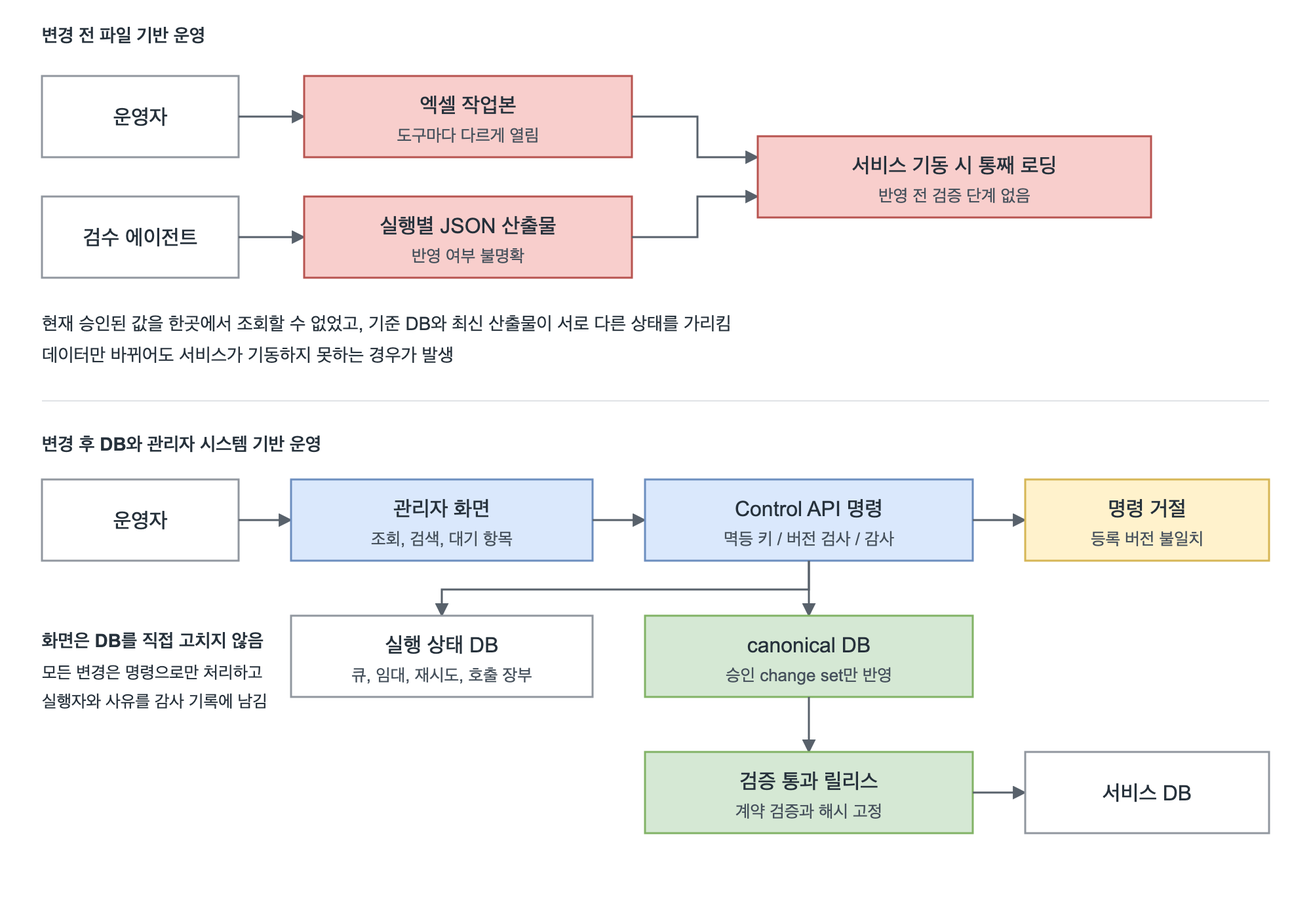
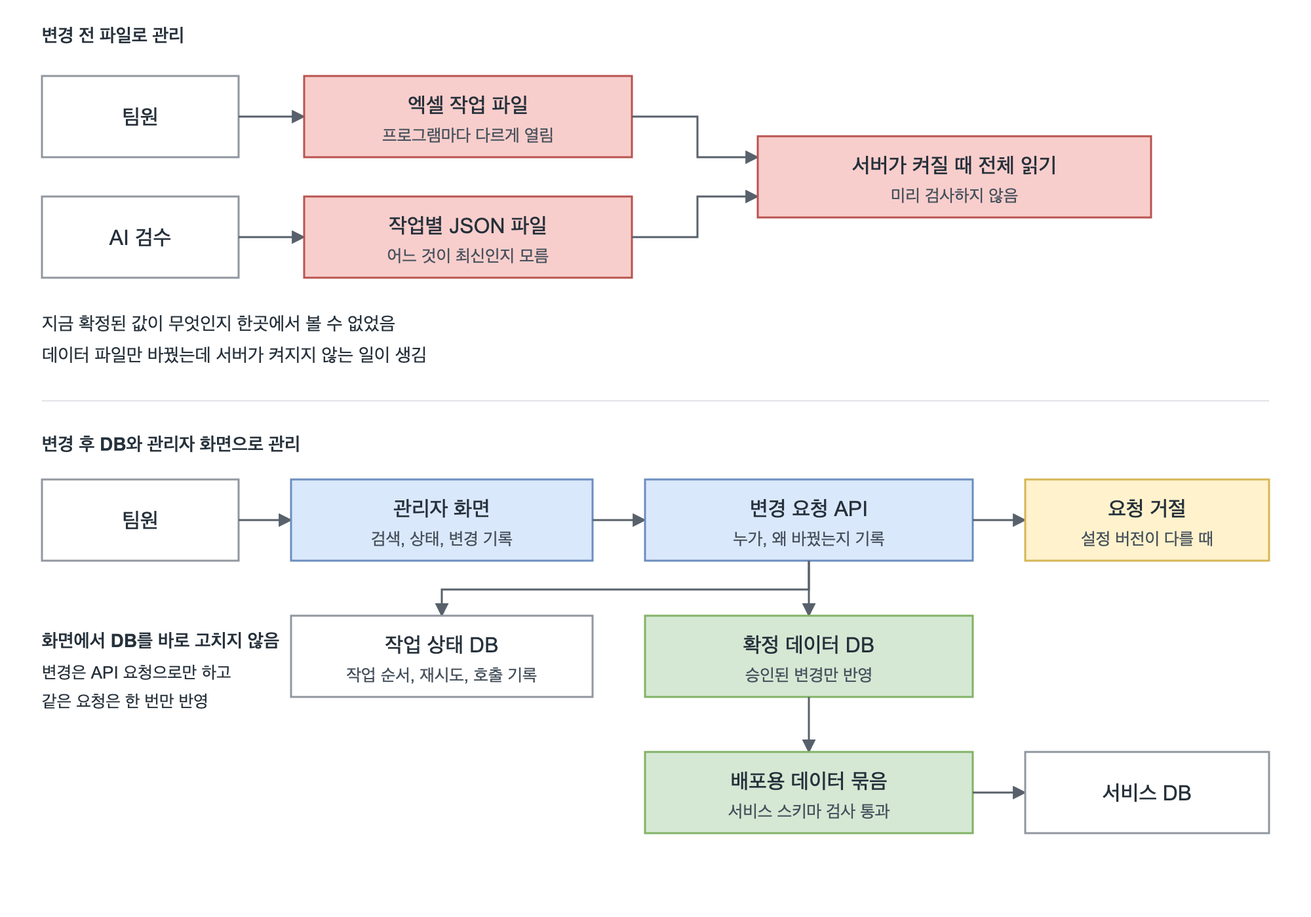
Rewrite data cases and diagrams in plain language

diff --git a/index.html b/index.html
@@ -46,83 +46,83 @@
         <div class="sec-title"><h2 id="cases-title">문제 해결 기록</h2><span class="section-en">Selected cases</span></div>
         <ol class="case-index">
 <li><a href="#case-ingredient-admin"><span class="index-no">01</span><span class="index-title">파일로 관리하던 성분 데이터를 관리자 시스템으로 전환</span><span class="index-project">Poudy</span><span class="index-arrow" aria-hidden="true">↗</span></a></li>
-<li><a href="#case-data-pipeline"><span class="index-no">02</span><span class="index-title">수집부터 서비스 전달까지 데이터 계층과 실행 주체 정의</span><span class="index-project">Poudy</span><span class="index-arrow" aria-hidden="true">↗</span></a></li>
+<li><a href="#case-data-pipeline"><span class="index-no">02</span><span class="index-title">파일과 AI 대화로 하던 데이터 처리를 단계별 파이프라인으로 정리</span><span class="index-project">Poudy</span><span class="index-arrow" aria-hidden="true">↗</span></a></li>
 <li><a href="#case-poudy-infra"><span class="index-no">03</span><span class="index-title">데이터 교체 실패 시 이전 상태로 복구하도록 배포 구성</span><span class="index-project">Poudy</span><span class="index-arrow" aria-hidden="true">↗</span></a></li>
 <li><a href="#case-like"><span class="index-no">04</span><span class="index-title">동시 요청과 재시도로 발생한 좋아요 오류 해결</span><span class="index-project">Layer Archive</span><span class="index-arrow" aria-hidden="true">↗</span></a></li>
 <li><a href="#case-dialect"><span class="index-no">05</span><span class="index-title">로컬에서는 통과하고 배포 환경에서만 발생한 조회 오류 해결</span><span class="index-project">Layer Archive</span><span class="index-arrow" aria-hidden="true">↗</span></a></li>
 </ol>
 <article class="case" id="case-ingredient-admin" aria-labelledby="case-title-1">
-  <div class="case-top"><span class="case-no">01</span><span class="proj">Poudy</span><span class="case-context">데이터 운영 / 2026.08 – 현재</span></div>
+  <div class="case-top"><span class="case-no">01</span><span class="proj">Poudy</span><span class="case-context">데이터 관리 / 2026.08 – 현재</span></div>
   <h3 id="case-title-1">파일로 관리하던 성분 데이터를 관리자 시스템으로 전환</h3>
-  <p class="case-deck">승인된 변경만 반영하고, 검증을 통과한 릴리스로 서비스에 전달하도록 운영 경로를 다시 만들었습니다.</p>
+  <p class="case-deck">엑셀과 JSON 파일로 관리하던 성분 데이터를 DB와 관리자 화면으로 옮겼습니다. 이제 승인된 변경만 서비스에 반영됩니다.</p>
   <figure>
-    <div class="figure-heading"><p class="figure-title">운영 경로 변경 전후</p><a href="assets/diagrams/ingredient-admin.png" data-diagram aria-label="운영 경로 변경 전후 크게 보기">크게 보기 ↗</a></div>
-    <a class="diagram-link" href="assets/diagrams/ingredient-admin.png" data-diagram aria-label="운영 경로 변경 전후 이미지 확대"><img class="diagram-image" src="assets/diagrams/ingredient-admin.png" width="2000" height="1400" alt="변경 전에는 운영자와 검수 에이전트가 엑셀 작업본과 실행별 JSON 산출물을 직접 다루고 서비스가 기동할 때 통째로 읽었다. 변경 후에는 운영자가 관리자 화면에서 Control API 명령을 보내고, 실행 상태 DB와 canonical DB를 거쳐 검증을 통과한 릴리스만 서비스 DB로 전달된다" loading="lazy" decoding="async"></a>
+    <div class="figure-heading"><p class="figure-title">관리 방식 변경 전후</p><a href="assets/diagrams/ingredient-admin.png" data-diagram aria-label="관리 방식 변경 전후 크게 보기">크게 보기 ↗</a></div>
+    <a class="diagram-link" href="assets/diagrams/ingredient-admin.png" data-diagram aria-label="관리 방식 변경 전후 이미지 확대"><img class="diagram-image" src="assets/diagrams/ingredient-admin.png" width="2000" height="1400" alt="변경 전에는 팀원과 AI 검수가 엑셀과 작업별 JSON 파일을 직접 다루고, 서버가 켜질 때 파일 전체를 검사 없이 읽었다. 변경 후에는 관리자 화면에서 API로 변경을 요청하고, 승인된 변경만 확정 데이터에 반영한 뒤 서비스 스키마 검사를 통과한 묶음만 서비스 DB로 보낸다" loading="lazy" decoding="async"></a>
   </figure>
   <div class="psr">
     <div>
       <p class="label">문제 원인</p>
       <ul>
-        <li>작업본이 엑셀 파일 하나였고 검수 결과는 실행별 JSON으로 쌓여, <b>어떤 값이 현재 승인된 값인지 한곳에서 조회할 수 없었습니다.</b> 실제로 기준 DB와 최신 산출물이 서로 다른 태그 상태를 가리켰습니다.</li>
-        <li>사람과 에이전트가 같은 파일을 함께 열다 보니 도구마다 서식이 다르게 열리고 잠금 파일이 남았습니다.</li>
-        <li>반영 전에 검증하는 단계가 없어, 데이터만 바꿔도 서비스가 기동하지 못하는 경우가 있었습니다. 진행 상황을 보려면 작업 중인 에이전트를 멈추고 확인해야 했습니다.</li>
+        <li>성분 데이터 원본은 엑셀 파일 하나였고, AI 검수 결과는 실행할 때마다 JSON 파일로 따로 쌓였습니다. 그래서 지금 확정된 값이 무엇인지 한곳에서 볼 수 없었고, 실제로 두 기록의 태그 상태가 서로 달랐습니다.</li>
+        <li>팀원과 AI가 같은 엑셀 파일을 열다 보니 프로그램마다 서식이 다르게 보였고, 잠금 파일이 남는 일도 잦았습니다.</li>
+        <li>서버는 켜질 때 데이터 파일 전체를 읽었는데, 미리 검사하는 단계가 없었습니다. 데이터만 바꿨는데 서버가 켜지지 않은 적도 있습니다.</li>
       </ul>
     </div>
     <div>
       <p class="label">해결 과정</p>
       <ul>
-        <li>운영자가 쓰는 <b>관리자 화면</b>에서 22,013건을 이름과 INCI로 검색하고, 필드별 상태와 대기 항목, 변경 전후와 근거, 감사 기록을 한곳에서 보도록 했습니다.</li>
-        <li><b>화면이 DB를 직접 수정하지 않습니다.</b> 모든 변경은 Control API 명령으로 처리하고, 명령마다 멱등 키와 기대 버전, 실행자, 사유를 감사 이벤트로 남깁니다.</li>
-        <li>등록된 워크플로 버전과 현재 정의가 다르면 <b>명령을 거절</b>합니다. 기존 등록값을 덮어써서 통과시키지 않습니다.</li>
-        <li>승인된 변경 묶음만 통합 데이터에 반영하고, 그 결과를 서비스 스키마 계약에 맞춰 릴리스로 만든 뒤 격리한 PostgreSQL에 적재해 실제 서비스 조회 코드로 확인했습니다.</li>
+        <li>관리자 화면을 만들었습니다. 원료 22,013건을 이름으로 검색하고, 원료마다 현재 상태와 바뀐 내용, 근거, 수정 기록을 볼 수 있습니다.</li>
+        <li>화면에서 DB를 바로 고치지 않게 했습니다. 변경은 API 요청으로만 할 수 있고, 요청마다 누가 왜 바꿨는지 남습니다. 같은 요청이 두 번 들어와도 한 번만 반영됩니다.</li>
+        <li>설정 버전이 맞지 않으면 요청을 거절합니다. 오래된 설정으로 데이터를 바꾸는 일을 막기 위해서입니다.</li>
+        <li>승인된 변경만 확정 데이터에 넣고, 서비스 스키마에 맞춘 배포용 묶음을 만들었습니다. 이 묶음을 별도 PostgreSQL에 넣고 실제 서비스 조회 코드로 읽히는지 확인했습니다.</li>
       </ul>
     </div>
     <div class="result">
       <p class="label">결과</p>
       <ul>
-        <li>파일을 직접 여는 운영을 없애고 조회, 승인, 게시, 이력을 <b>한 화면에서 처리</b></li>
-        <li>승인되지 않은 값은 반영되지 않고, 같은 요청을 다시 보내도 <b>중복 반영과 중복 이력이 생기지 않음</b></li>
-        <li>기준이 달랐던 상태 충돌 <b>1,086건을 자동 채택하지 않고 격리</b>해 검토 대상으로 노출</li>
-        <li>릴리스에서 원료 22,013건과 별칭 4,354건을 생성해 격리 DB 적재와 <b>재실행, 충돌 거부, 롤백까지 확인</b></li>
-        <li>검증 범위: 로컬과 격리 환경 기준이며 운영 DB 적재와 서비스 게시는 수행하지 않았습니다</li>
+        <li>엑셀을 직접 열지 않고 관리자 화면에서 <b>조회, 승인, 반영</b>까지 처리</li>
+        <li>승인하지 않은 값은 반영되지 않고, 같은 요청을 다시 보내도 <b>두 번 반영되지 않음</b></li>
+        <li>두 기록이 서로 달랐던 <b>1,086건</b>은 자동으로 고르지 않고 따로 모아 사람이 확인하도록 함</li>
+        <li>원료 22,013건을 배포용 묶음으로 만들어 별도 DB에 넣고, <b>다시 넣기와 되돌리기</b>까지 확인</li>
+        <li>확인 범위는 별도 테스트 DB까지이며, 운영 DB 반영은 아직 하지 않았습니다</li>
       </ul>
     </div>
   </div>
 </article>
 <article class="case" id="case-data-pipeline" aria-labelledby="case-title-2">
   <div class="case-top"><span class="case-no">02</span><span class="proj">Poudy</span><span class="case-context">데이터 파이프라인 / 2026.08 – 현재</span></div>
-  <h3 id="case-title-2">수집부터 서비스 전달까지 데이터 계층과 실행 주체 정의</h3>
-  <p class="case-deck">버전이 남지 않던 파일과 LLM 중심 처리에 계층을 정의하고, 단계마다 코드와 LLM의 역할을 나눠 같은 입력에서 같은 결과가 나오도록 만들었습니다.</p>
+  <h3 id="case-title-2">파일과 AI 대화로 하던 데이터 처리를 단계별 파이프라인으로 정리</h3>
+  <p class="case-deck">데이터를 원본 보관, 정리와 확정, 서비스 전달 세 단계로 나누고, 단계마다 코드가 할 일과 AI가 할 일을 구분했습니다.</p>
   <figure>
-    <div class="figure-heading"><p class="figure-title">데이터 계층과 단계별 실행 주체</p><a href="assets/diagrams/data-hub-layers.png" data-diagram aria-label="데이터 계층과 단계별 실행 주체 크게 보기">크게 보기 ↗</a></div>
-    <a class="diagram-link" href="assets/diagrams/data-hub-layers.png" data-diagram aria-label="데이터 계층과 단계별 실행 주체 이미지 확대"><img class="diagram-image" src="assets/diagrams/data-hub-layers.png" width="2000" height="1280" alt="수집 원본을 보존하는 L0, 정규화와 승인을 거치는 L1, 대상 DB 계약을 검증하는 L2로 계층을 나눈다. 수집과 정규화와 릴리스는 결정론적 코드가, 근거 조사와 작성과 독립 검증은 LLM 서브에이전트가, 큐와 재시도와 감사는 실행 상태 DB가 맡는다" loading="lazy" decoding="async"></a>
+    <div class="figure-heading"><p class="figure-title">데이터 처리 단계와 원료 한 건의 처리 순서</p><a href="assets/diagrams/data-hub-layers.png" data-diagram aria-label="데이터 처리 단계와 원료 한 건의 처리 순서 크게 보기">크게 보기 ↗</a></div>
+    <a class="diagram-link" href="assets/diagrams/data-hub-layers.png" data-diagram aria-label="데이터 처리 단계와 원료 한 건의 처리 순서 이미지 확대"><img class="diagram-image" src="assets/diagrams/data-hub-layers.png" width="2000" height="1620" alt="데이터를 원본 보관, 정리와 확정, 서비스 전달 세 단계로 나눈다. 원료 한 건은 작업을 가져와 입력을 준비한 뒤 LLM이 근거 찾기, 근거 고르기, 설명과 태그 쓰기, 다른 역할의 검토를 거치고, 규칙 검사 결과에 따라 확정 데이터 반영, 사람 확인 대기, 재시도나 보류로 나뉜다" loading="lazy" decoding="async"></a>
   </figure>
   <div class="psr">
     <div>
       <p class="label">문제 원인</p>
       <ul>
-        <li>처리 규칙이 파일과 대화에 흩어져 있어 <b>같은 입력으로 같은 결과를 다시 만들 수 없었고</b>, 버전도 남지 않았습니다.</li>
-        <li>수집, 정규화, 판단, 검증, 게시가 한 덩어리로 섞여 있어 한 단계가 막히면 전체가 멈췄습니다.</li>
-        <li>무엇이 원본이고 무엇이 파생물인지 구분이 없어, 어떤 값이 근거를 가진 승인 값인지 되짚기 어려웠습니다.</li>
+        <li>처리 규칙이 파일과 AI 대화 기록에 흩어져 있었습니다. 같은 작업을 다시 돌려도 같은 결과가 나온다는 보장이 없었고, 어떤 규칙으로 처리했는지도 남지 않았습니다.</li>
+        <li>수집, 정리, 판단, 검토, 반영이 한 흐름에 섞여 있어서 원료 하나에서 막히면 뒤의 작업도 멈췄습니다.</li>
+        <li>원본과 가공한 결과가 구분되지 않아, 어떤 값이 근거를 갖고 승인된 값인지 나중에 되짚기 어려웠습니다.</li>
       </ul>
     </div>
     <div>
       <p class="label">해결 과정</p>
       <ul>
-        <li>데이터를 <b>수집 원본, 구조화와 통합, 소비 계약</b> 세 계층으로 나누고 계층마다 진입 기준과 허용 상태를 정했습니다. 원본은 고치지 않고 해시로 식별하며, 기준을 통과한 경우에만 다음 계층으로 올립니다.</li>
-        <li><b>계층과 상태를 분리</b>했습니다. 위치가 품질을 보장하지 않도록 검토 상태와 실행 상태, 게시 상태를 각각 따로 관리합니다.</li>
-        <li>단계마다 실행 주체를 지정했습니다. 수집과 해시 기록, import와 정규화, 무결성 검사, 릴리스 생성은 <b>결정론적 코드와 SQL</b>이 맡고, 근거 조사와 판정, 작성, 독립 검증, 사람 승인 대기처럼 <b>판단과 순환이 필요한 구간만 LLM 서브에이전트</b>가 맡습니다.</li>
-        <li>에이전트 호출은 역할별 JSON 스키마로 고정하고 규칙 기반 게이트를 통과한 결과만 후보가 됩니다. 실패는 일시적인 것과 도메인 문제로 나눠, 다시 물어도 같은 답이 오는 실패는 재시도하지 않고 격리합니다.</li>
+        <li>데이터를 세 단계로 나눴습니다. 받은 원본은 고치지 않고 보관하고, 다음 단계에서 형식을 맞추고 중복과 충돌을 확인한 뒤 승인된 값만 확정합니다. 마지막 단계에서 서비스 스키마에 맞게 묶습니다. 메달리온 구조를 우리 데이터에 맞게 바꿔 적용했습니다.</li>
+        <li>단계마다 누가 처리할지 정했습니다. 파일 읽기, 형식 정리, 중복 검사, 배포용 묶음 만들기처럼 답이 정해진 일은 Python 코드가 합니다. 근거 찾기, 설명 쓰기, 검토처럼 판단이 필요한 일만 LLM에게 맡겼습니다.</li>
+        <li>LLM 단계는 LangGraph로 묶어 찾기, 고르기, 쓰기, 검토 순서로 흐르게 했습니다. 사람 확인이 필요하면 멈췄다가, 확인한 뒤 같은 자리에서 이어갑니다.</li>
+        <li>작업 순서와 재시도는 SQLite로 관리합니다. 시간 초과처럼 다시 하면 풀리는 실패는 잠시 뒤 재시도하고, 다시 물어도 같은 답이 나올 실패는 보류로 돌린 뒤 다음 원료를 처리합니다.</li>
       </ul>
     </div>
     <div class="result">
       <p class="label">결과</p>
       <ul>
-        <li>원료 22,013건을 같은 기준으로 처리하는 계층과 규칙을 정의하고, <b>도메인과 계층별 메타데이터 계약을 검증</b>하는 구조를 구현</li>
-        <li>입력 원본의 해시와 식별자 22,013건, 태그 대조 22,013건, 카탈로그 98종을 기록해 <b>값의 출처와 이력을 되짚을 수 있게 함</b></li>
-        <li>같은 입력과 프롬프트의 성공 결과를 재사용하고 실패를 분류해, <b>같은 실패를 반복 호출하지 않도록 차단</b></li>
-        <li>이벤트 재생을 두 번 수행해 <b>같은 상태가 재현되는 것을 확인</b></li>
-        <li>검증 범위: 계약과 메타데이터 검증, 격리 환경 실행 기준이며 도메인별 수집기와 승격 실행기는 후속 구현입니다</li>
+        <li>원료 22,013건을 <b>같은 규칙, 같은 순서</b>로 처리하는 구조를 만듦</li>
+        <li>원본 파일, 원료 22,013건, 태그 코드 98종을 기록해 <b>값이 어디서 왔는지</b> 되짚을 수 있게 함</li>
+        <li>이미 성공한 AI 호출은 결과를 다시 쓰고, <b>같은 실패는 반복해서 호출하지 않음</b></li>
+        <li>작업 기록을 처음부터 두 번 다시 적용해 <b>같은 상태가 나오는지</b> 확인</li>
+        <li>확인 범위는 구조 검증과 원료 100건 시험 실행까지이며, 전체 처리는 진행 중입니다</li>
       </ul>
     </div>
   </div>
@@ -130,7 +130,7 @@
 <article class="case" id="case-poudy-infra" aria-labelledby="case-title-3">
   <div class="case-top"><span class="case-no">03</span><span class="proj">Poudy</span><span class="case-context">인프라 / 2026.08 – 현재</span></div>
   <h3 id="case-title-3">데이터 교체 실패 시 이전 상태로 복구하도록 배포 구성</h3>
-  <p class="case-deck">컨테이너 이미지 배포가 어려운 환경에서 systemd와 CodeDeploy로 배포를 구성하고, S3 데이터 교체에 실패하면 복구할 수 있는 경로를 마련했습니다.</p>
+  <p class="case-deck">Docker 이미지를 쓸 수 없는 서버에서 systemd와 CodeDeploy로 배포했습니다. 데이터 교체에 실패하면 이전 데이터로 되돌아갑니다.</p>
   <figure>
     <div class="figure-heading"><p class="figure-title">배포 아키텍처</p><a href="assets/diagrams/poudy-infrastructure.png" data-diagram aria-label="배포 아키텍처 크게 보기">크게 보기 ↗</a></div>
     <a class="diagram-link" href="assets/diagrams/poudy-infrastructure.png" data-diagram aria-label="배포 아키텍처 이미지 확대"><img class="diagram-image" src="assets/diagrams/poudy-infrastructure.png" width="2000" height="1300" alt="웹 브라우저와 WebView 기반 Android 앱이 프론트 EC2의 Nginx로 들어오고, Nginx가 Next.js standalone과 백엔드 EC2의 Spring Boot로 요청을 나눈다. 백엔드 EC2는 S3의 서비스 데이터를 타이머로 동기화하고, CodeBuild와 CodeDeploy가 두 EC2에 배포한다" loading="lazy" decoding="async"></a>
@@ -159,7 +159,7 @@
             <ul>
               <li><b>www.poudy.site와 Google Play 앱</b>을 이 배포 위에서 운영하며 릴리즈를 이어가는 중</li>
               <li>systemd 통제 테스트에서 백엔드 프로세스를 강제 종료(SIGKILL)하자 <b>약 5초 후 자동 재시작, 약 24초 후 health 복구</b> 확인</li>
-              <li>k6 고정 부하 60초에서 캐시 미적중 <b>30 req/s 오류 0%, p95 10.97ms, CPU 사용 최대 13%, swap 0</b>을 SSM 지표와 함께 확인해 단일 EC2 유지의 근거로 삼음</li>
+              <li>k6 고정 부하 60초에서 캐시 미적중 <b>30 req/s 오류 0%, p95 10.97ms, CPU 사용 최대 13%, swap 0</b>을 SSM 지표로 확인해, 지금은 서버를 늘리지 않아도 된다고 판단</li>
             </ul>
           </div>
         </div>
@@ -231,7 +231,7 @@
             <p class="label">결과</p>
             <ul>
               <li>배포 환경의 <b>갤러리와 아카이브 목록 조회 장애 해소</b></li>
-              <li>같은 유형의 방언 차이 버그를 사용자에게 노출되기 전 <b>머지 전 CI에서 잡는 구조</b> 확보</li>
+              <li>DB 종류에 따라 달라지는 버그를 사용자가 보기 전에 <b>머지 전 CI에서 잡을 수 있게 됨</b></li>
               <li>검색과 필터 JPQL을 추가할 때 방언 민감도를 먼저 판단하는 기준을 ADR로 문서화</li>
             </ul>
           </div>

diff --git a/scripts/build_diagrams.py b/scripts/build_diagrams.py
@@ -195,68 +195,81 @@ d.box(282, 396, 436, 66, '정량 평가', '정확도 / 관련성 / 환각률', '
 d.text(32, 513, 'RAG 적용 전후를 동일한 테스트셋으로 비교', 14)
 d.save()
 
-d = Diagram('ingredient-admin', 700, '성분 데이터 운영 경로 변경', '변경 전에는 운영자와 에이전트가 엑셀과 실행별 JSON을 직접 다루고 서비스가 기동 시 통째로 읽었다. 변경 후에는 관리자 화면이 Control API 명령으로만 상태를 바꾸고, 승인된 변경만 canonical에 반영해 검증을 통과한 릴리스로 서비스에 전달한다.')
-d.text(32, 32, '변경 전  파일 기반 운영', 14, 600)
-d.box(32, 58, 150, 62, '운영자')
-d.box(32, 150, 150, 62, '검수 에이전트')
+d = Diagram('ingredient-admin', 700, '성분 데이터 관리 방식 변경 전후', '변경 전에는 팀원과 AI 검수가 엑셀과 작업별 JSON 파일을 직접 다루고, 서버가 켜질 때 파일 전체를 검사 없이 읽었다. 변경 후에는 관리자 화면에서 API로 변경을 요청하고, 승인된 변경만 확정 데이터에 반영한 뒤 서비스 스키마 검사를 통과한 묶음만 서비스 DB로 보낸다.')
+d.text(32, 32, '변경 전  파일로 관리', 14, 600)
+d.box(32, 58, 150, 62, '팀원')
+d.box(32, 150, 150, 62, 'AI 검수')
 d.arrow('M182 89H232')
 d.arrow('M182 181H232')
-d.box(232, 58, 250, 62, '엑셀 작업본', '도구마다 다르게 열림', 'red')
-d.box(232, 150, 250, 62, '실행별 JSON 산출물', '반영 여부 불명확', 'red')
+d.box(232, 58, 250, 62, '엑셀 작업 파일', '프로그램마다 다르게 열림', 'red')
+d.box(232, 150, 250, 62, '작업별 JSON 파일', '어느 것이 최신인지 모름', 'red')
 d.arrow('M482 89H532V120H578')
 d.arrow('M482 181H532V150H578')
-d.box(578, 104, 300, 62, '서비스 기동 시 통째 로딩', '반영 전 검증 단계 없음', 'red')
-d.text(32, 252, '현재 승인된 값을 한곳에서 조회할 수 없었고, 기준 DB와 최신 산출물이 서로 다른 상태를 가리킴', 14)
-d.text(32, 276, '데이터만 바뀌어도 서비스가 기동하지 못하는 경우가 발생', 14)
+d.box(578, 104, 300, 62, '서버가 켜질 때 전체 읽기', '미리 검사하지 않음', 'red')
+d.text(32, 252, '지금 확정된 값이 무엇인지 한곳에서 볼 수 없었음', 14)
+d.text(32, 276, '데이터 파일만 바꿨는데 서버가 켜지지 않는 일이 생김', 14)
 d.rule(306)
-d.text(32, 344, '변경 후  DB와 관리자 시스템 기반 운영', 14, 600)
-d.box(32, 366, 150, 62, '운영자')
+d.text(32, 344, '변경 후  DB와 관리자 화면으로 관리', 14, 600)
+d.box(32, 366, 150, 62, '팀원')
 d.arrow('M182 397H222')
-d.box(222, 366, 230, 62, '관리자 화면', '조회, 검색, 대기 항목', 'blue')
+d.box(222, 366, 230, 62, '관리자 화면', '검색, 상태, 변경 기록', 'blue')
 d.arrow('M452 397H492')
-d.box(492, 366, 250, 62, 'Control API 명령', '멱등 키 / 버전 검사 / 감사', 'blue')
+d.box(492, 366, 250, 62, '변경 요청 API', '누가, 왜 바꿨는지 기록', 'blue')
 d.arrow('M742 397H782')
-d.box(782, 366, 186, 62, '명령 거절', '등록 버전 불일치', 'yellow')
+d.box(782, 366, 186, 62, '요청 거절', '설정 버전이 다를 때', 'yellow')
 d.arrow('M617 428V450H337V470')
 d.arrow('M617 428V470')
-d.box(222, 470, 230, 62, '실행 상태 DB', '큐, 임대, 재시도, 호출 장부')
-d.box(492, 470, 250, 62, 'canonical DB', '승인 change set만 반영', 'green')
+d.box(222, 470, 230, 62, '작업 상태 DB', '작업 순서, 재시도, 호출 기록')
+d.box(492, 470, 250, 62, '확정 데이터 DB', '승인된 변경만 반영', 'green')
 d.arrow('M617 532V574')
-d.box(492, 574, 250, 62, '검증 통과 릴리스', '계약 검증과 해시 고정', 'green')
+d.box(492, 574, 250, 62, '배포용 데이터 묶음', '서비스 스키마 검사 통과', 'green')
 d.arrow('M742 605H782')
 d.box(782, 574, 186, 62, '서비스 DB')
-d.text(32, 494, '화면은 DB를 직접 고치지 않음', 14, 600)
-d.text(32, 518, '모든 변경은 명령으로만 처리하고', 13)
-d.text(32, 540, '실행자와 사유를 감사 기록에 남김', 13)
+d.text(32, 494, '화면에서 DB를 바로 고치지 않음', 14, 600)
+d.text(32, 518, '변경은 API 요청으로만 하고', 13)
+d.text(32, 540, '같은 요청은 한 번만 반영', 13)
 d.save()
 
-d = Diagram('data-hub-layers', 640, '계층과 단계별 실행 주체', '수집 원본을 L0로 보존하고 L1에서 정규화와 승인을 거쳐 L2에서 대상 DB 계약을 검증한다. 수집과 검증, 릴리스는 결정론적 코드가, 조사와 작성과 독립 검증은 LLM 서브에이전트가, 큐와 재시도와 감사는 실행 상태 DB가 맡는다.')
-d.text(32, 32, '데이터 계층', 14, 600)
-d.group(32, 52, 296, 224, 'L0 Bronze  수집 원본')
-d.box(52, 96, 256, 62, '공공데이터, XLSX', '원문 보존과 해시 기록')
-d.box(52, 186, 256, 62, '실행별 JSON 산출물', '이번 실행의 입력 스냅샷')
+d = Diagram('data-hub-layers', 810, '데이터 처리 단계와 원료 한 건의 처리 순서', '데이터를 원본 보관, 정리와 확정, 서비스 전달 세 단계로 나눈다. 원료 한 건은 작업을 가져와 입력을 준비한 뒤 LLM이 근거 찾기, 근거 고르기, 설명과 태그 쓰기, 다른 역할의 검토를 거치고, 규칙 검사 결과에 따라 확정 데이터 반영, 사람 확인 대기, 재시도나 보류로 나뉜다.')
+d.text(32, 32, '데이터를 세 단계로 나눔', 14, 600)
+d.group(32, 52, 296, 224, 'L0  원본 보관')
+d.box(52, 96, 256, 62, '공공데이터, 엑셀', '받은 그대로 보관')
+d.box(52, 186, 256, 62, '이전 작업 결과 JSON', '수정하지 않고 보관')
 d.arrow('M328 158H352')
-d.group(352, 52, 296, 224, 'L1 Silver  구조화와 통합')
-d.box(372, 96, 256, 62, 'staging', '정규화, 중복, 충돌 격리', 'blue')
+d.group(352, 52, 296, 224, 'L1  정리와 확정')
+d.box(372, 96, 256, 62, '검사 중인 데이터', '형식 정리, 중복과 충돌 확인', 'blue')
 d.arrow('M500 158V186')
-d.box(372, 186, 256, 62, 'canonical', '승인된 값과 근거, 이력', 'green')
+d.box(372, 186, 256, 62, '확정 데이터', '승인된 값과 근거, 변경 이력', 'green')
 d.arrow('M648 158H672')
-d.group(672, 52, 296, 224, 'L2 Gold  소비 계약')
-d.box(692, 96, 256, 62, '릴리스 빌드', '대상 DB 계약 검증', 'green')
+d.group(672, 52, 296, 224, 'L2  서비스 전달')
+d.box(692, 96, 256, 62, '배포용 묶음 만들기', '서비스 스키마에 맞춰 검사', 'green')
 d.arrow('M820 158V186')
-d.box(692, 186, 256, 62, '서비스 DB 적재', '출력 해시 고정')
+d.box(692, 186, 256, 62, '서비스 DB에 넣기', '넣은 뒤 내용이 같은지 확인')
 d.rule(306)
-d.text(32, 344, '단계별 실행 주체', 14, 600)
-d.group(32, 366, 296, 196, '결정론적 Python과 SQL')
-for i, line in enumerate(['수집과 원본 해시 기록', 'import와 타입 정규화', '중복, 누락, 참조 검사', '릴리스와 export 생성']):
-    d.text(52, 424 + i * 30, line, 14)
-d.group(352, 366, 296, 196, 'LLM 서브에이전트')
-for i, line in enumerate(['근거 조사와 적합성 판정', '설명과 태그 후보 작성', '별도 역할의 독립 검증', '추가 조사와 사람 승인 대기']):
-    d.text(372, 424 + i * 30, line, 14)
-d.group(672, 366, 296, 196, '실행 상태 DB')
-for i, line in enumerate(['작업 큐와 임대', '재시도와 실패 분류', '모델 호출 장부', '명령과 이벤트 감사']):
-    d.text(692, 424 + i * 30, line, 14)
-d.text(32, 600, '판단과 순환이 필요한 구간만 LLM이 맡고, 나머지는 같은 입력에서 같은 결과가 나오는 코드로 처리', 14, 600)
+d.text(32, 344, '원료 한 건이 처리되는 순서', 14, 600)
+d.box(32, 386, 180, 62, '작업 가져오기', '다른 작업자와 겹치지 않게')
+d.arrow('M212 417H248')
+d.box(248, 386, 200, 62, '입력 준비', '같은 작업 반복 방지')
+d.arrow('M448 417H484')
+d.group(484, 336, 484, 222, 'LLM이 맡는 단계 (LangGraph)')
+d.box(504, 386, 204, 62, '근거 찾기', '논문, 기관 자료', 'blue')
+d.arrow('M708 417H740')
+d.box(740, 386, 208, 62, '근거 고르기', '피부에 바른 연구 우선', 'blue')
+d.arrow('M844 448V466H606V484')
+d.box(504, 484, 204, 62, '설명과 태그 쓰기', '고른 근거만 사용', 'blue')
+d.arrow('M708 515H740')
+d.box(740, 484, 208, 62, '다른 역할이 검토', '작성과 검토를 분리', 'green')
+d.arrow('M844 546V574H474V598')
+d.box(352, 598, 244, 62, '규칙 검사', '코드로 정한 기준', 'yellow')
+d.arrow('M474 660V684H175V712')
+d.arrow('M474 684H500V712')
+d.arrow('M474 684H825V712')
+d.box(32, 712, 286, 62, '확정 데이터에 반영', '변경 이력 저장', 'green')
+d.box(357, 712, 286, 62, '사람 확인 대기', '확인 후 이어서 진행', 'yellow')
+d.box(682, 712, 286, 62, '다시 시도 또는 보류', '실패 이유에 따라', 'red')
+d.text(32, 494, '모든 단계를 기록', 14, 600)
+d.text(32, 522, '작업자가 멈추면 작업을 되돌려 놓고', 13)
+d.text(32, 544, '이미 성공한 AI 호출은 다시 하지 않음', 13)
 d.save()
 
 print(f'Generated 7 SVG diagrams in {OUT}')
